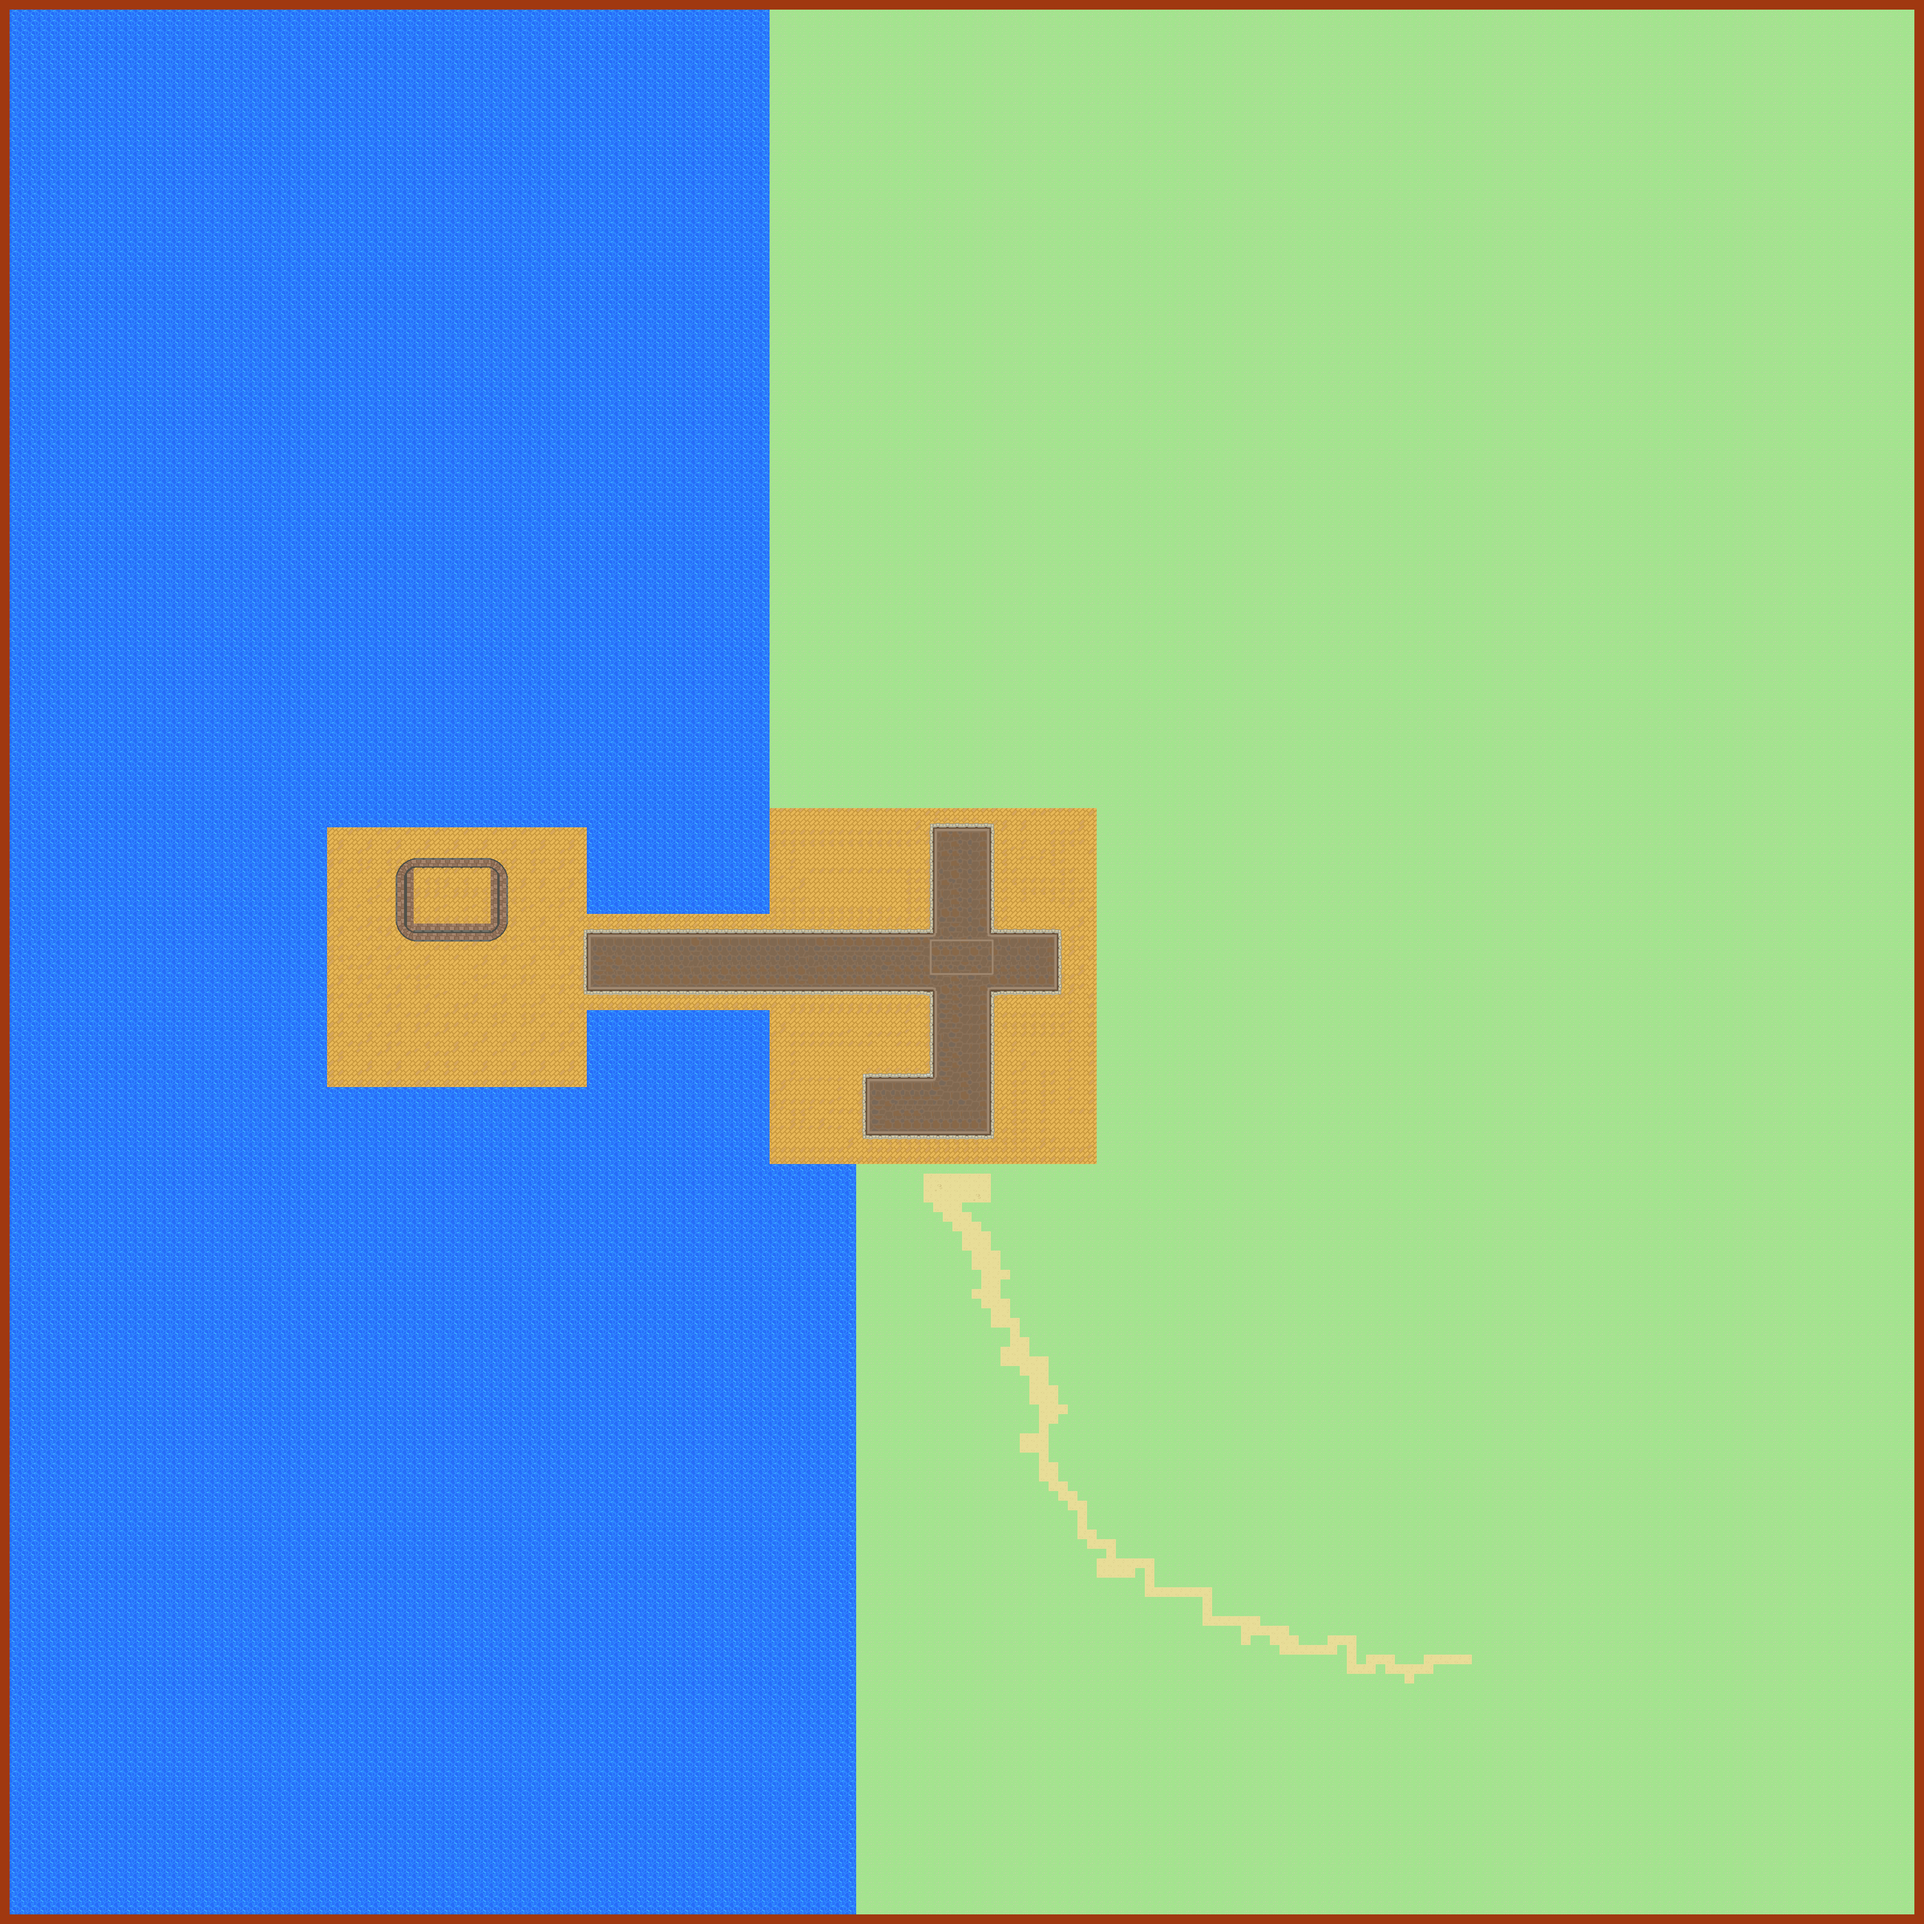
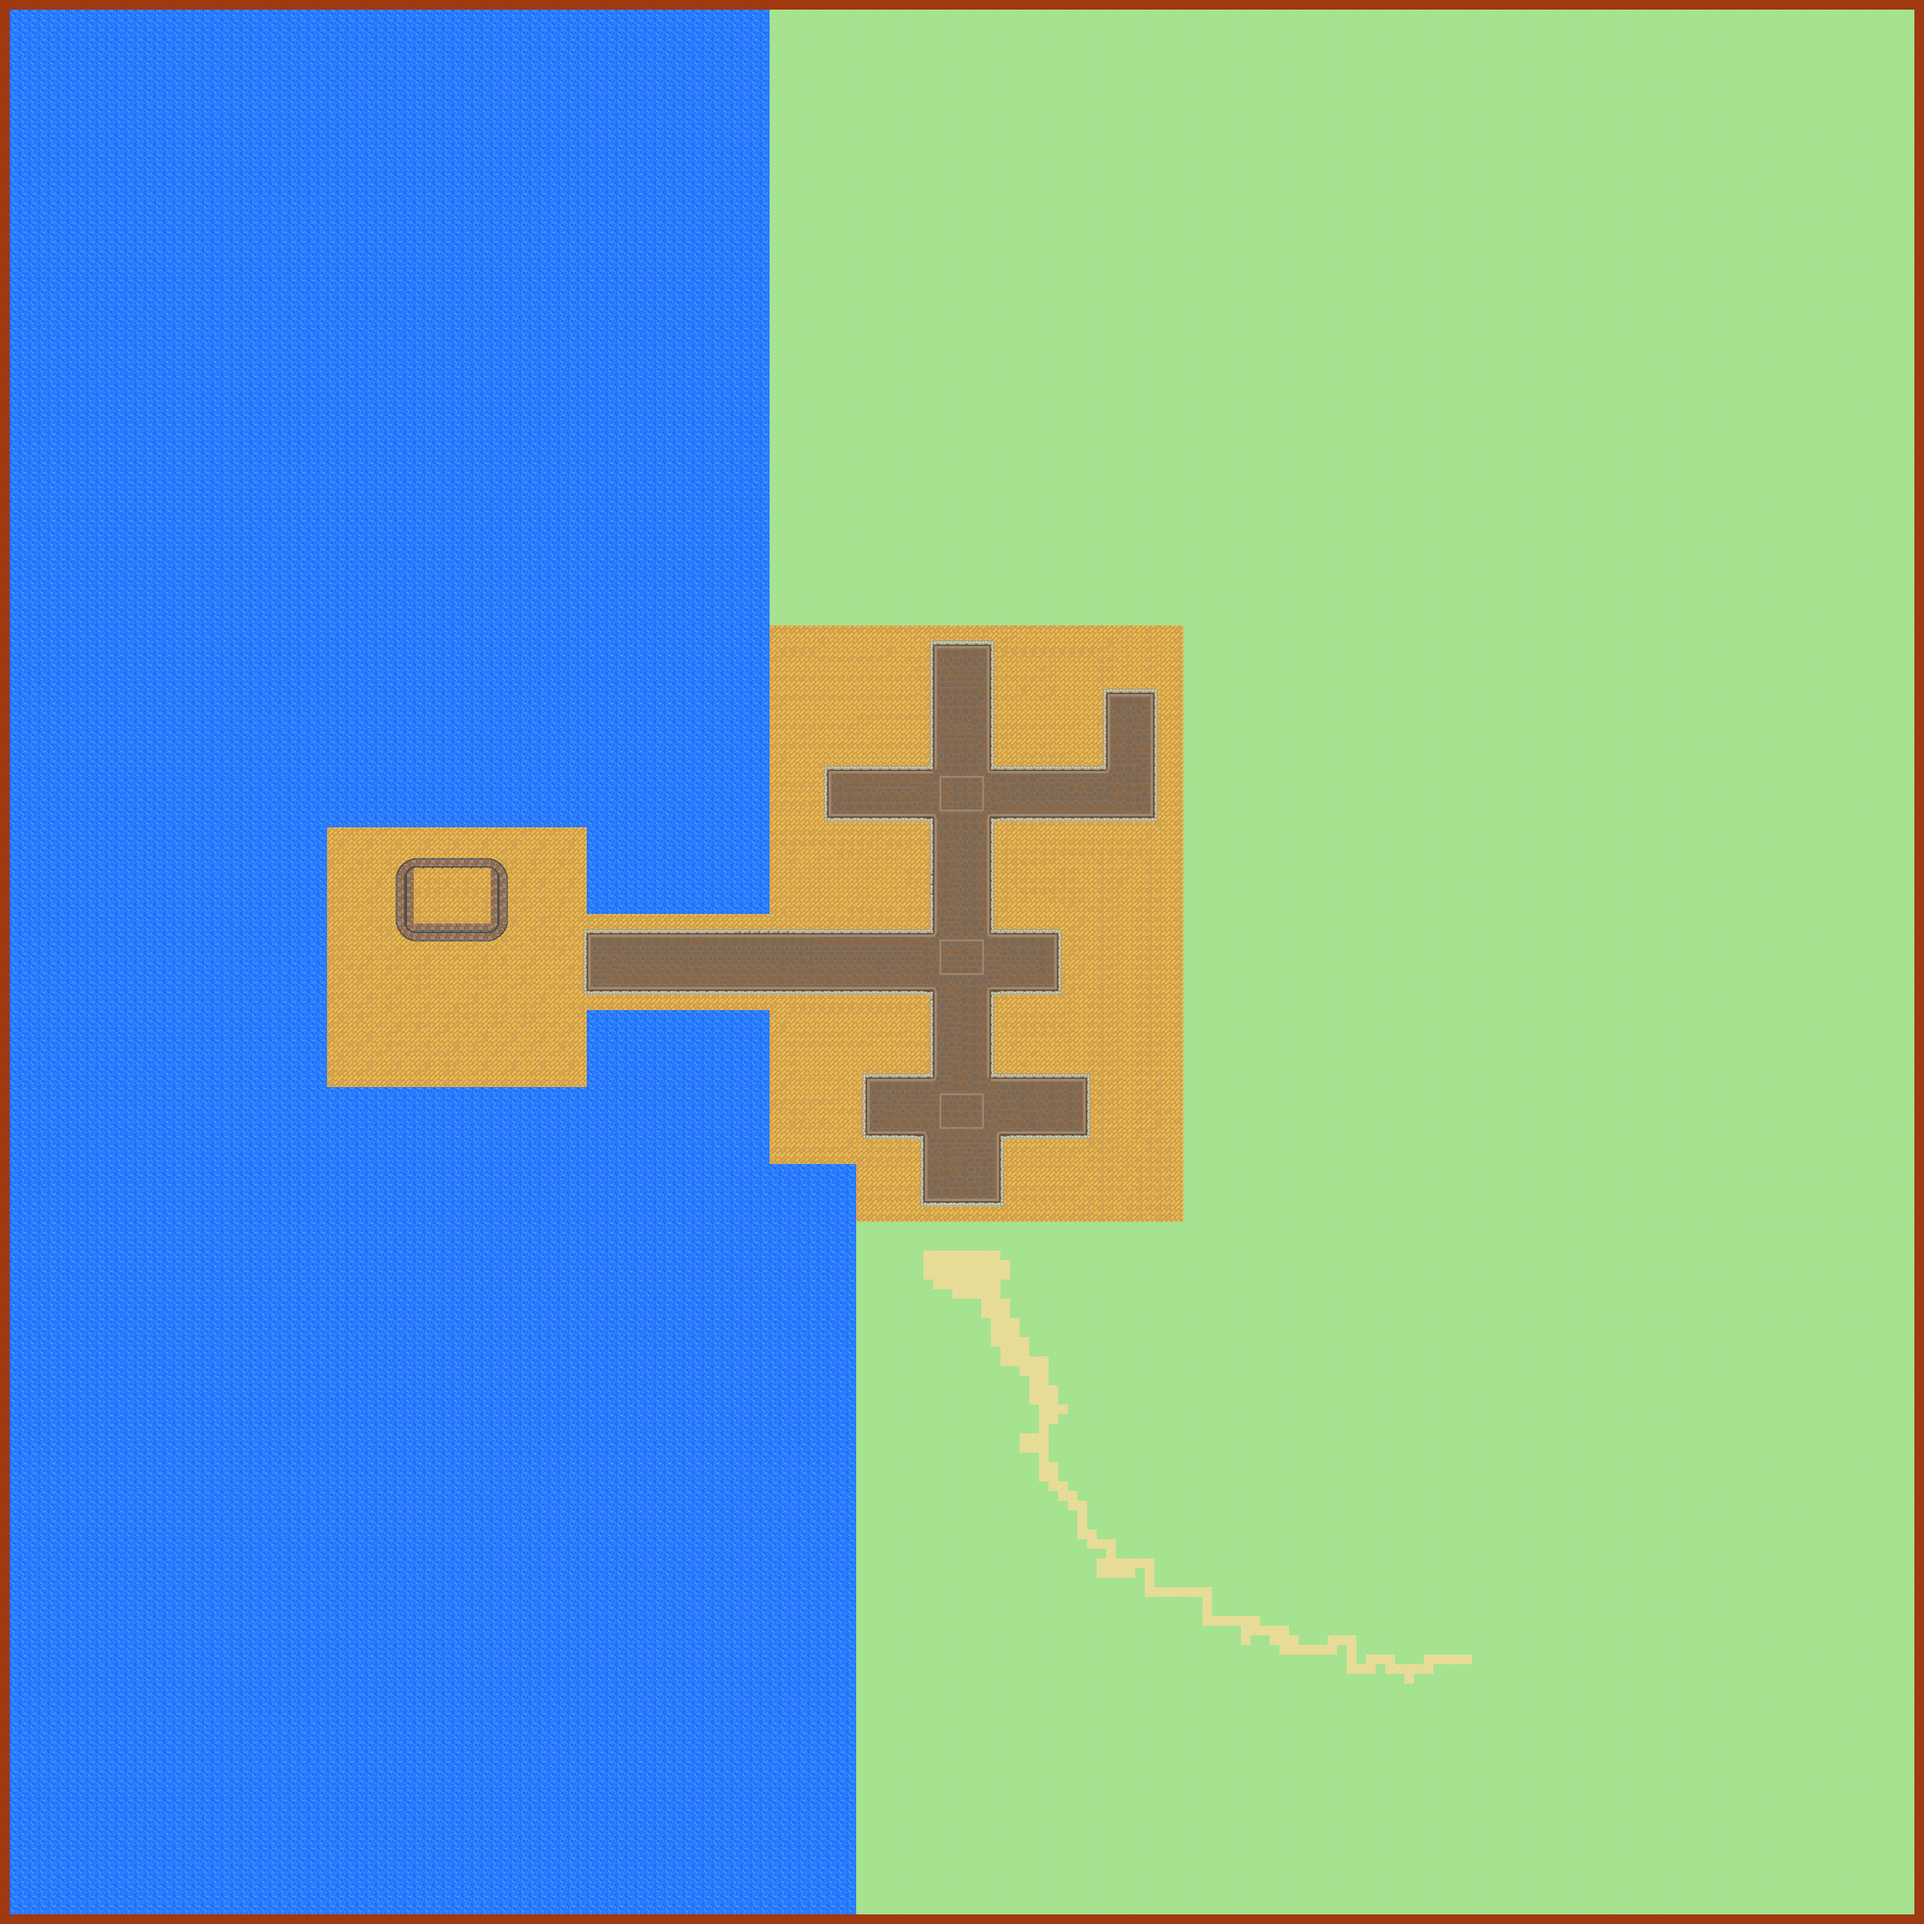
fix: map adjustments and layout

Changed region(s): [[0.375, 0.3125, 0.625, 0.7188]]

diff --git a/src/components/flower/flower-layout.ts b/src/components/flower/flower-layout.ts
@@ -14,12 +14,14 @@ export type FlowerMapConfig = {
 // each "#" character becomes a flower. Use "." for empty space.
 // "." indicates white spaces.
 export const FLOWER_MAP = `
+...........
+...........
 .#......#..
-...#...#...
-..#.#....#.
+#.........#
+##.......#.
 ...#.#....#
-....###...###
-...##......##
+....###....###
+......##....##
 `.trim();
 
 export const FLOWER_MAP_CONFIG = {
